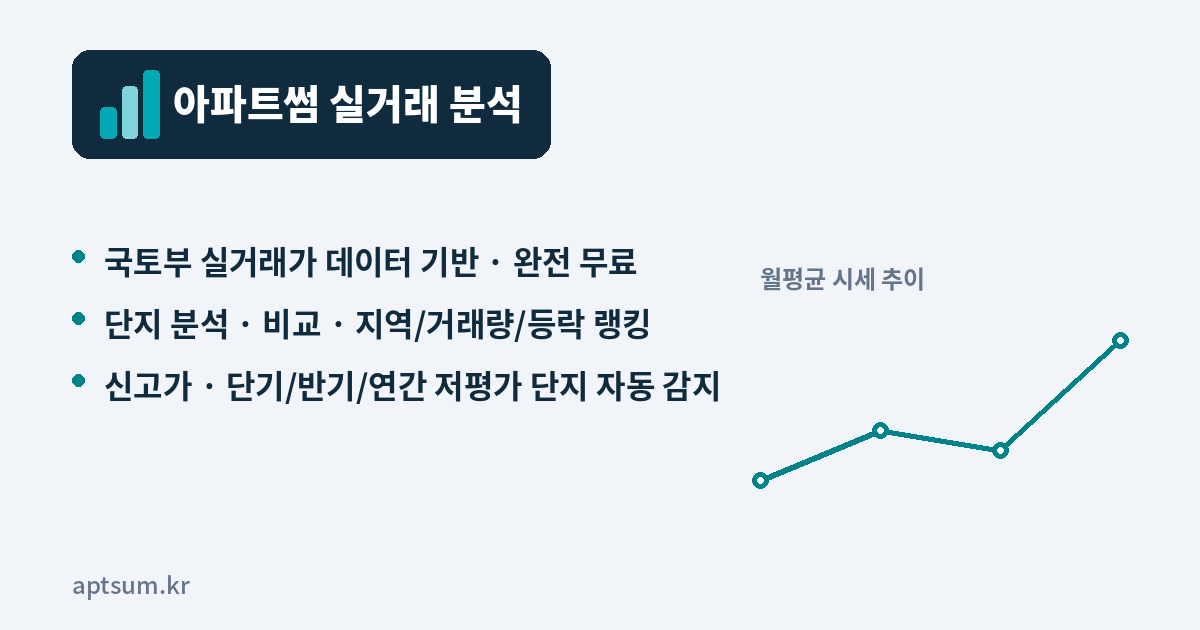
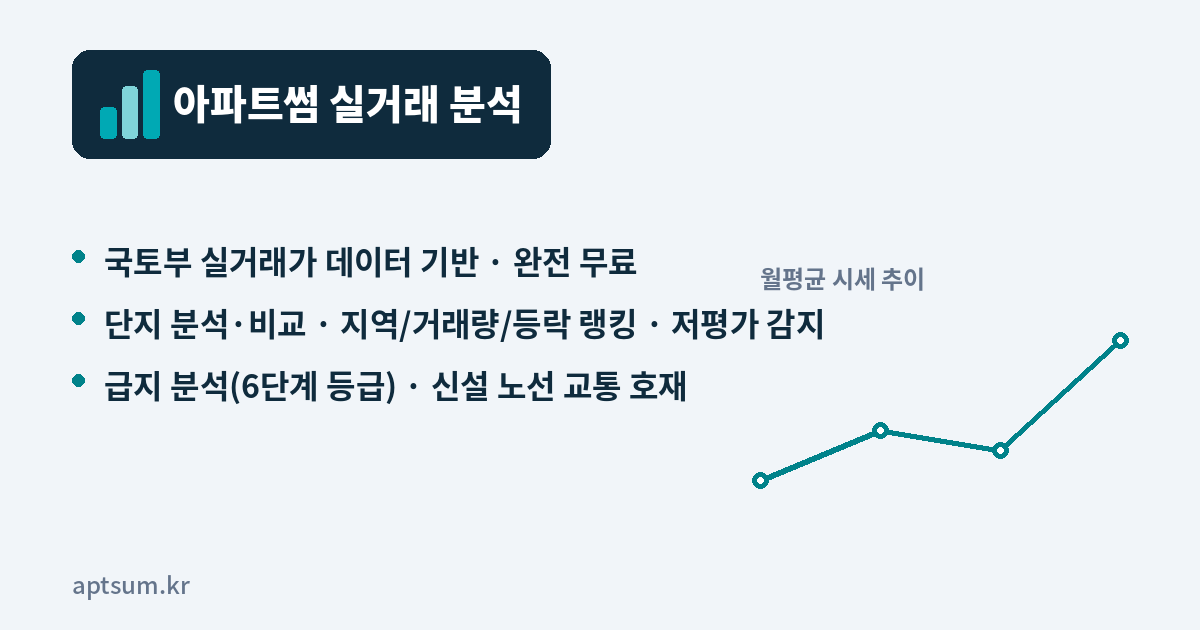
공유 미리보기 설명을 현재 탭 구성에 맞게 재작성
급지 분석, 교통 호재 탭이 추가된 이후로도 기존 설명 문구(신고가·신저가 등
예전 문구)가 그대로 남아있던 걸 현재 탭 구성(단지 분석·비교, 랭킹, 저평가,
급지 분석, 교통 호재)에 맞게 재작성. meta description·OG·트위터 카드
설명, og-image.png 내 불릿 3줄 모두 갱신.

Claude-Session: https://claude.ai/code/session_01QwuFzxQ73YJ1DaKu1KykFn

Changed region(s): [[0.0925, 0.573, 0.6167, 0.6635], [0.185, 0.4825, 0.7092, 0.5429]]

diff --git a/index.html b/index.html
@@ -4,7 +4,7 @@
 <meta charset="UTF-8">
 <meta name="viewport" content="width=device-width, initial-scale=1.0, maximum-scale=1.0, user-scalable=no, interactive-widget=resizes-content">
 <title>아파트썸 실거래 분석</title>
-<meta name="description" content="국토부 실거래가 데이터 기반 무료 아파트 시세 분석 — 단지 분석·비교, 지역/거래량/등락 랭킹, 신고가·신저가, 저평가 단지까지 확인하세요.">
+<meta name="description" content="국토부 실거래가 데이터 기반 무료 아파트 시세 분석 — 단지 분석·비교, 지역/거래량/등락 랭킹, 저평가 단지, 급지 분석, 신설 노선 교통 호재까지 확인하세요.">
 <meta name="theme-color" content="#0F2B3D">
 
 <link rel="icon" type="image/svg+xml" href="/assets/favicon.svg">
@@ -14,12 +14,12 @@
 <meta property="og:type" content="website">
 <meta property="og:site_name" content="아파트썸 실거래 분석">
 <meta property="og:title" content="아파트썸 실거래 분석 — 국토부 실거래가 기반 무료 시세 분석">
-<meta property="og:description" content="단지 분석·비교, 지역/거래량/등락 랭킹, 신고가·신저가, 저평가 단지까지 국토부 공공 데이터로 무료 제공합니다.">
+<meta property="og:description" content="단지 분석·비교, 지역/거래량/등락 랭킹, 저평가 단지, 급지 분석, 신설 노선 교통 호재까지 국토부 공공 데이터로 무료 제공합니다.">
 <meta property="og:image" content="https://aptsum.kr/assets/og-image.png">
 <meta property="og:url" content="https://aptsum.kr/">
 <meta name="twitter:card" content="summary_large_image">
 <meta name="twitter:title" content="아파트썸 실거래 분석">
-<meta name="twitter:description" content="단지 분석·비교, 지역/거래량/등락 랭킹, 신고가·신저가, 저평가 단지까지 국토부 실거래가 기반 무료 시세 분석">
+<meta name="twitter:description" content="단지 분석·비교, 지역/거래량/등락 랭킹, 저평가 단지, 급지 분석, 신설 노선 교통 호재까지 국토부 실거래가 기반 무료 시세 분석">
 <meta name="twitter:image" content="https://aptsum.kr/assets/og-image.png">
 
 <link href="https://fonts.googleapis.com/css2?family=Noto+Sans+KR:wght@400;500;700;900&display=swap" rel="stylesheet">

diff --git a/assets/gen.py b/assets/gen.py
@@ -93,8 +93,8 @@ d.text((tx, ty), badge_text, font=badge_font, fill=WHITE)
 # body: value props (2026.07 — 탭이 9개로 늘어난 현재 구성에 맞게 갱신)
 items = [
     "국토부 실거래가 데이터 기반 · 완전 무료",
-    "단지 분석 · 비교 · 지역/거래량/등락 랭킹",
-    "신고가 · 단기/반기/연간 저평가 단지 자동 감지",
+    "단지 분석·비교 · 지역/거래량/등락 랭킹 · 저평가 감지",
+    "급지 분석(6단계 등급) · 신설 노선 교통 호재",
 ]
 y = badge_y1 + 78
 for line in items:
